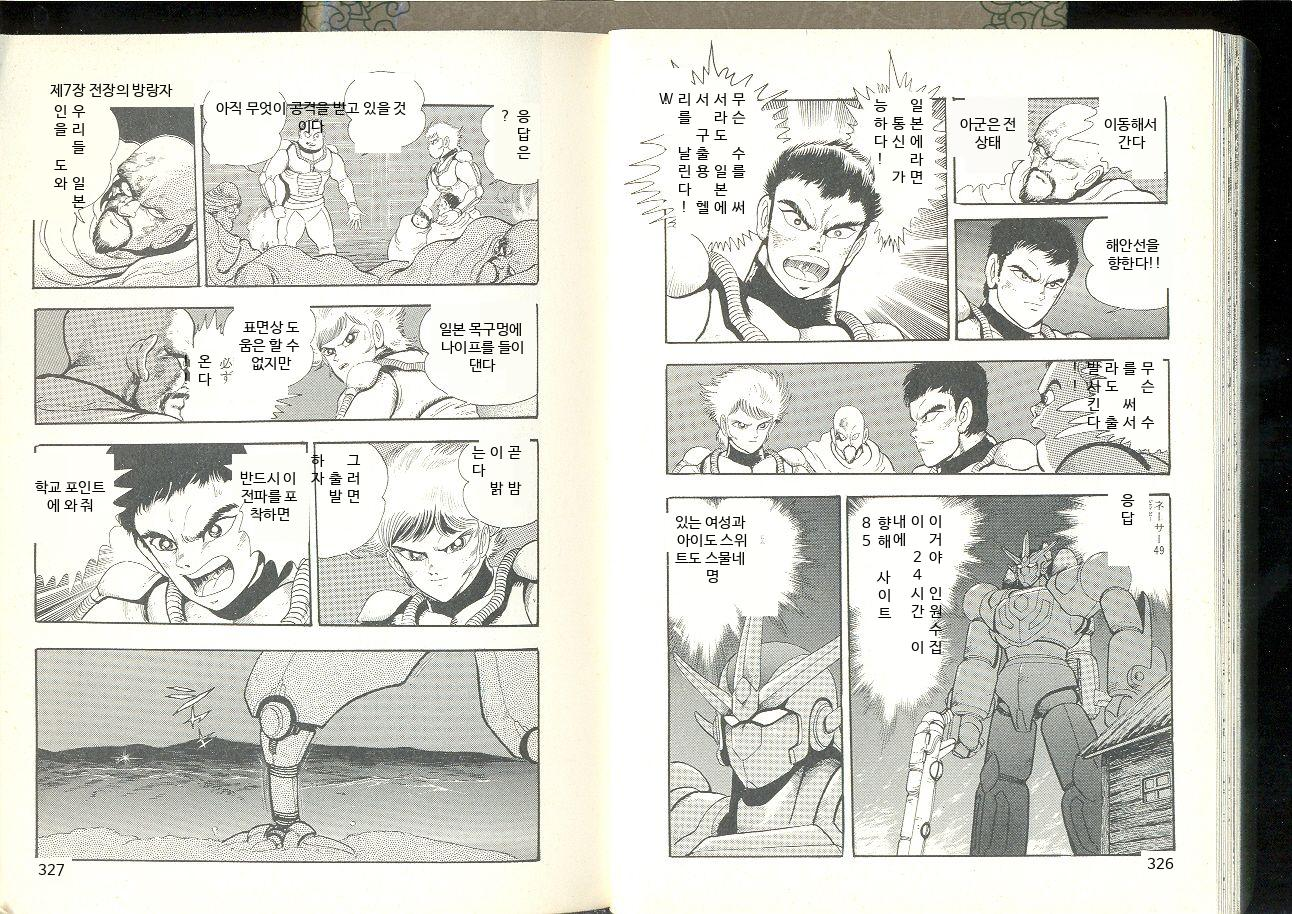
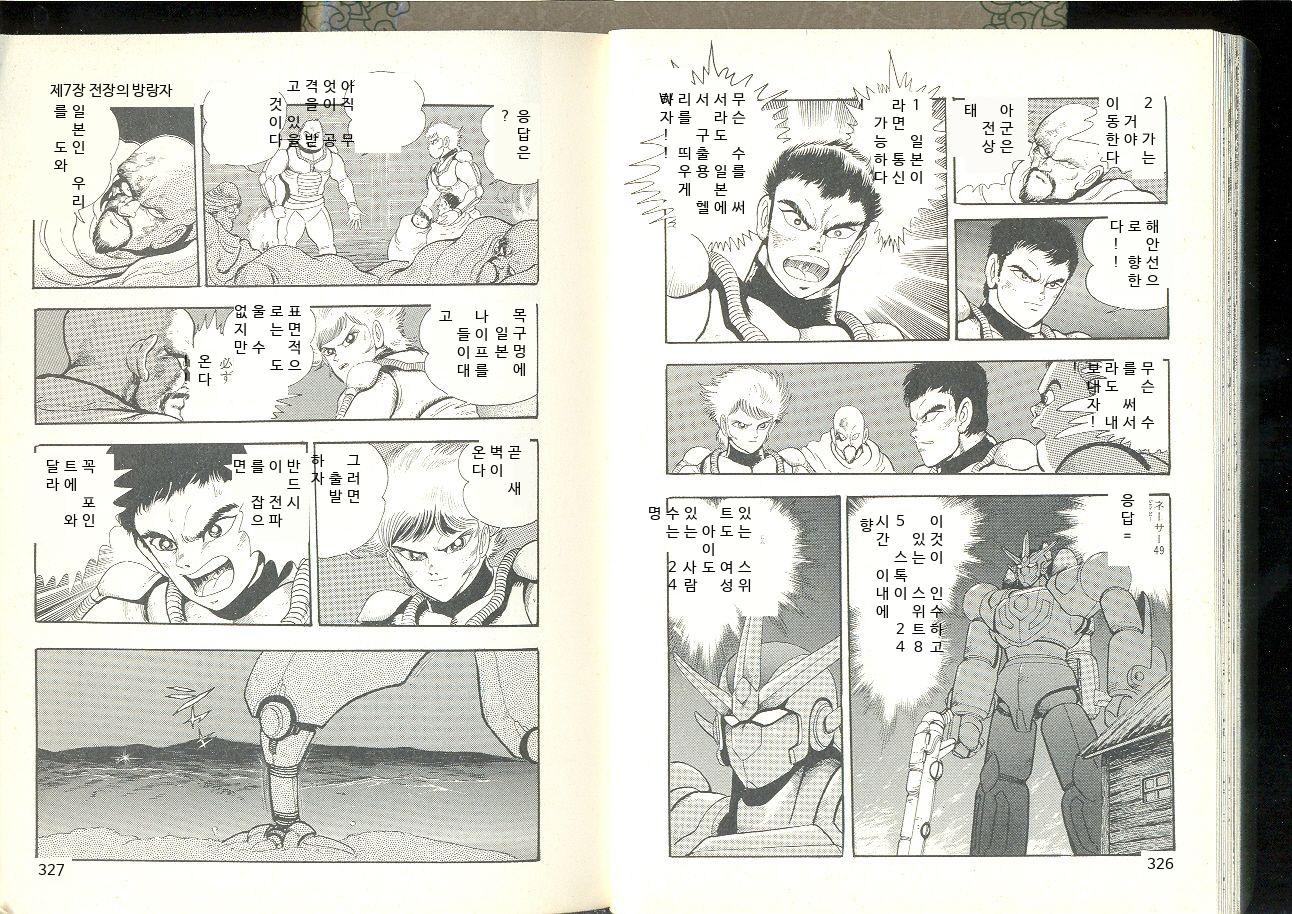
fix(render): item 내 bbox 다수결로 방향 결정
- 글로벌 방향 투표 → translation item 내 bbox 다수결
- 세로 bbox가 많으면 세로쓰기, 아니면 가로쓰기
- 제목/페이지 번호 등 가로 텍스트가 세로로 렌더링되던 문제 해결

diff --git a/render.py b/render.py
@@ -250,8 +250,12 @@ def run_render(
         bg_color = _get_background_color(img, rx1, ry1, rx2, ry2)
         text_color = _get_text_color(bg_color)
 
-        # 3단계: 전체 통일 폰트 크기로 렌더링
-        if rh > rw * 1.5:
+        # 3단계: item 내 bbox 다수결로 방향 결정
+        iv = sum(1 for r in bbox_rects if (r[3] - r[1]) > (r[2] - r[0]) * 1.5)
+        ih = len(bbox_rects) - iv
+        item_vertical = iv > ih
+
+        if item_vertical:
             _render_vertical(
                 draw,
                 translated,
